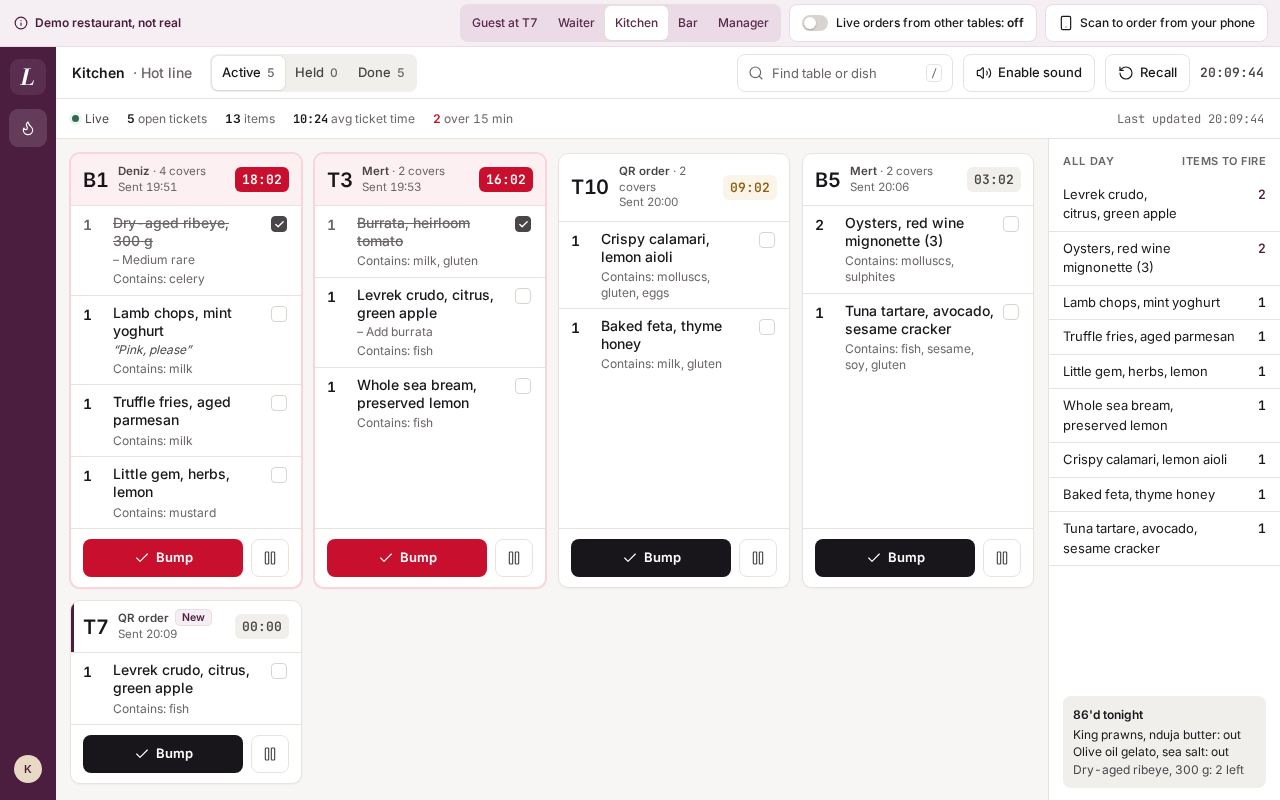
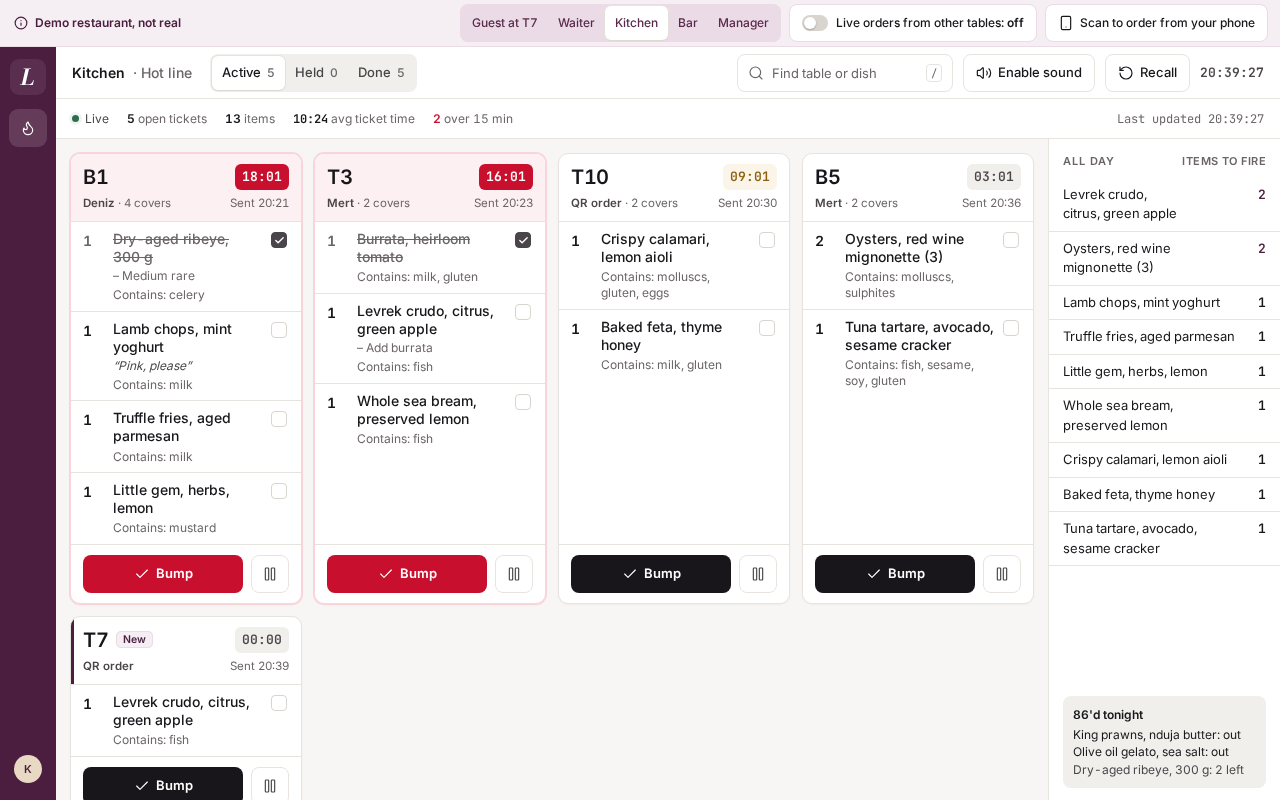
docs: deploying section, CI on every push, KDS layout e2e and a fresh kitchen screenshot
- README: Deploying (same-origin proxy, TRUST_PROXY, NODE_ENV, COOKIE_SECURE, SESSION_SECRET, WEB_ORIGIN,
  DEMO_MODE, Atlas replica set, always-on API), storage caps, reconnect wording, test counts (F5, F7, minors)
- CI runs on every push with a 30 min timeout and a concurrency group
- e2e: ticket headers on one unclipped line at 1280 px; kitchen.png re-taken (F8)

Claude-Session: https://claude.ai/code/session_01G1gUztbjonzCYopjxcu6K3

diff --git a/e2e/kds-layout.spec.ts b/e2e/kds-layout.spec.ts
@@ -1,0 +1,27 @@
+/*
+ * F8: the kitchen ticket header reads cleanly on a 1280 px screen with 4 ticket columns (the README screenshot).
+ * The server or "QR order", the covers and the sent time sit on one line under the table number, nothing clipped.
+ * The seeded T10 ticket is a QR order with 2 covers: the case that used to wrap onto three lines.
+ */
+import { test, expect } from "@playwright/test";
+import { demoAs } from "./helpers";
+
+test.use({ viewport: { width: 1280, height: 800 } });
+
+test("kitchen ticket headers: who, covers and sent time on one unclipped line at 1280 px", async ({ page }) => {
+  await demoAs(page, "kitchen");
+  const t10 = page.getByRole("article", { name: /^Ticket T10\b/ });
+  await expect(t10).toBeVisible();
+  await expect(t10.locator("header")).toContainText(/QR order · 2 covers/);
+
+  const headers = await page.locator(".kds-tk-h").evaluateAll((els) =>
+    els.map((h) => {
+      const meta = h.querySelector<HTMLElement>(".kds-tmeta")!;
+      const lineHeight = parseFloat(getComputedStyle(meta).lineHeight);
+      const clipped = [...h.querySelectorAll<HTMLElement>("*")].some((e) => e.scrollWidth > e.clientWidth + 1 && e.clientWidth > 0);
+      return { text: h.textContent, lines: Math.round(meta.getBoundingClientRect().height / lineHeight), clipped };
+    }),
+  );
+  expect(headers.length).toBeGreaterThanOrEqual(4);
+  for (const h of headers) expect(h, h.text ?? "").toMatchObject({ lines: 1, clipped: false });
+});

diff --git a/README.md b/README.md
@@ -4,7 +4,7 @@ A restaurant system for a **fictional** bistro and cocktail bar in Karaköy, Ist
 
 The point of the project is the part you can't see: **an order is never lost and never doubled**, whether the guest's phone drops mid-order, two guests race for the last portion, or a waiter closes the check while an order is in flight. See [How no order is ever missed](#how-no-order-is-ever-missed).
 
-Deployment is coming; for now it runs locally (see [Running locally](#running-locally)).
+Deployment is coming; for now it runs locally (see [Running locally](#running-locally), and [Deploying](#deploying) for what a host needs).
 
 <p>
   <img src="docs/screenshots/kitchen.png" alt="The kitchen display: tickets with timers (two late ones in red), a new QR order from T7, the All day counts and the 86 list" width="640">
@@ -58,7 +58,7 @@ The records are naturally documents:
 
 ### 1. Snapshot on every reconnect
 
-Every screen fetches a full snapshot of what it shows on connect and on every reconnect, then applies events. A kitchen tablet that drops off the wifi shows "Offline / Reconnecting…" at once (the socket follows the browser's offline and online events instead of waiting for a heartbeat), and the moment it is back it refetches and the missed tickets appear, with the chime. The `kds-reconnect` end-to-end test takes the kitchen offline, places an order, checks it is absent while offline, and expects it on the board within 5 seconds of reconnecting, without a page reload.
+Every screen fetches a full snapshot of what it shows on connect and on every reconnect, then applies events. A kitchen tablet that drops off the wifi shows "Offline / Reconnecting…" within a second (the socket follows the browser's offline and online events instead of waiting for a heartbeat), and the moment it is back it refetches and the missed tickets appear, with the chime. A browser that never fires "online" still reconnects: the socket retries within 10 seconds, and at once when the screen is shown or focused. As a last backstop, the kitchen board refetches every 30 seconds while its socket is down, and "Last updated" moves with every snapshot. The `kds-reconnect` end-to-end test takes the kitchen offline, places an order, checks it is absent while offline, and expects it on the board within 5 seconds of reconnecting, without a page reload.
 
 ### 2. Idempotency keys
 
@@ -114,12 +114,29 @@ npm run setup -w @lodos/api -- --tenant main --seed-menu \
 | `WEB_ORIGIN` | no | The web app's origin, for CORS (default `http://localhost:5180`) |
 | `PORT`, `HOST` | no | Where the API listens (default `4100` on `0.0.0.0`) |
 | `DEMO_SANDBOXES_PER_IP_HOUR` | no | New sandboxes allowed per IP per hour (default 5) |
+| `TRUST_PROXY` | no | Behind a reverse proxy: `false` (default), `true`, a hop count, or a comma-separated list of proxy IPs / CIDRs. Per-IP limits then see the client's address |
+| `COOKIE_SECURE` | no | `1` / `0`: session and sandbox cookies are HTTPS-only. Defaults to on when `NODE_ENV=production` |
+
+**Storage caps.** Every restaurant (and every demo sandbox) holds at most 120 dishes and 20 MB of uploaded photos; past that, creating a dish or uploading a photo answers `409 limit_exceeded`. Replacing a photo frees the old one first. The caps are always on, not only in demo mode: a public demo visitor must not be able to fill the database, and a real menu never comes near them.
+
+## Deploying
+
+The supported setup is **one origin**: the web host serves the built app and reverse-proxies `/api` and `/socket.io` to the API. The client uses relative URLs, so the browser only ever talks to the web origin, and the staff session cookie is first-party everywhere (iPad Safari included). The spec's alternative of an `api.lodos.<domain>` subdomain is not supported: the client has no setting for a separate API origin.
+
+- **Proxy both paths**, and pass the WebSocket upgrade for `/socket.io` (`Upgrade` and `Connection` headers). In nginx that is a `location /socket.io/` block with `proxy_http_version 1.1`, `proxy_set_header Upgrade $http_upgrade` and `proxy_set_header Connection "upgrade"`.
+- **`TRUST_PROXY`**: set it to the hops in front of the API (often `1`, or the proxy's address), so `X-Forwarded-For` gives the client's address to the per-IP limits. Leave it `false` when nothing sits in front: then the header is ignored and cannot be spoofed.
+- **`NODE_ENV=production`** turns on `COOKIE_SECURE`, so cookies are sent over HTTPS only. Serve the site over HTTPS; set `COOKIE_SECURE=0` only for a local production build on plain HTTP.
+- **`SESSION_SECRET`**: a fresh random string of 32 characters or more (`openssl rand -base64 48`). Changing it signs everyone out.
+- **`WEB_ORIGIN`**: the public origin of the web app, for example `https://lodos.example.com`.
+- **`DEMO_MODE`**: `1` for the public portfolio demo, unset for a real restaurant (then run `npm run setup`, above).
+- **MongoDB**: Atlas works, but it must be a replica set (every Atlas cluster is), because orders use multi-document transactions.
+- **The API must be always on.** It holds the Socket.IO connections and runs the demo's sandbox cleanup and order simulator on timers, so a host that sleeps idle processes or runs functions per request will drop live updates. Use a long-running Node 22 process (a VM, a container, or a platform's always-on tier).
 
 ## Tests
 
 ```bash
 npm run lint && npm run typecheck
-npm test            # unit and integration: shared 28, API 222 (real MongoDB replica set), web 187
+npm test            # unit and integration: shared 28, API 232 (real MongoDB replica set), web 197
 npm run test:e2e    # Playwright: starts MongoDB (:27019), the built API (:4200) and the built web app (:5280)
 ```
 
@@ -131,6 +148,7 @@ npm run test:e2e    # Playwright: starts MongoDB (:27019), the built API (:4200)
   - a waiter order sending food to the kitchen and drinks to the bar, and the check grouped as Food and Drinks with the right subtotals
   - closing a check: the table turns free, the guest's page says the visit ended, and the next order opens a new visit
   - the kitchen catching up after going offline
+  - the kitchen ticket headers reading on one line at 1280 px with four columns (the screenshot above)
 - **Accessibility:** axe checks the guest menu, the dish sheet, "Your table", the staff login, the kitchen, the floor with a table selected, order entry, the menu editor and the demo landing against WCAG 2.2 A and AA, and allows zero serious or critical violations, with no rule disabled. What it found and we fixed: buttons whose spoken name left out their visible text (the EN/TR toggle said "English" but showed "EN"), an amber that was 4.35:1 instead of 4.5:1, and a scrolling check panel a keyboard couldn't reach.
 - **Wall-clock independence:** tests pass at any hour. The integration tests inject "now"; the end-to-end seed is relative to the moment each sandbox is created and no test asserts a clock time.
 
